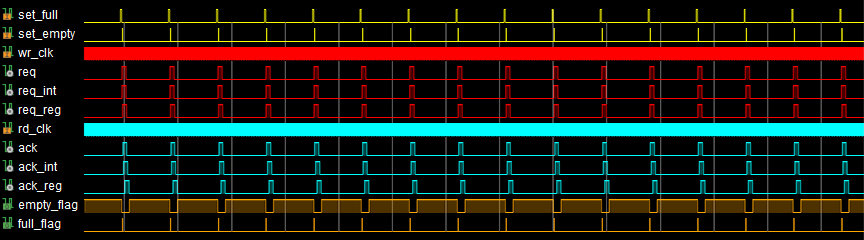
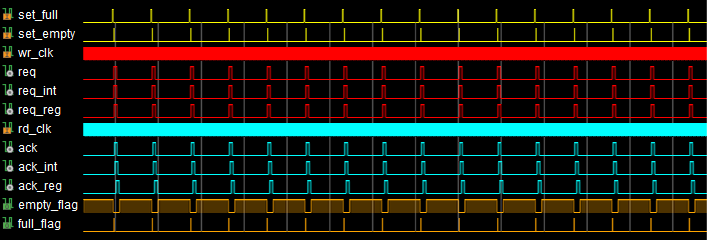
Complete the majority of the results chapter

diff --git a/text/results.tex b/text/results.tex
@@ -4,74 +4,130 @@
 
 %FIXME: add text here
 
-\subsection{Memory Synchronizer}
+\section{Memory Synchronizer}
 
-This section describes the various tests performed on the full/empty memory synchronizer used within the PDP firmware to synchronize data transitioning across clock domains. First, it discusses simulation results obtained through a full behavioral simulation of PDP. Secondly, it discusses using the memory synchronizer in a test setup and pitfalls that occurred with earlier implementations.
+    This section describes the various tests performed on the full/empty memory synchronizer used within the PDP firmware to synchronize data transitioning across clock domains. First, it discusses simulation results obtained through a full behavioral simulation of PDP. Secondly, it discusses using the memory synchronizer in a test setup and pitfalls that occurred with earlier implementations.
 
-\subsubsection{Simulations}
-Figure~\ref{fig:full_empty_sim} shows the simulated results of the full/empty memory synchronizer when transitioning to full and back to empty per clock cycle for a writer and reader operating at \mbox{XXX Mhz} and \mbox{200 Mhz}, respectively. For discussion about each signal and the expected internal behavior see chapter~\ref{sec:memorysync}. Each state transition in the simulation should look similar to the state transitions shown in Table~\ref{tbl:full_empty_circuit_states}.
+    \subsection{Simulation}
+        Figure~\ref{fig:full_empty_sim} shows the simulated results of the full/empty memory synchronizer when transitioning to full and back to empty per clock cycle for a writer and reader operating at \mbox{35.75 Mhz} and \mbox{200 Mhz}, respectively. For discussion about each signal and the expected internal behavior see Chapter~\ref{sec:memorysync}. Each state transition in the simulation should look similar to the state transitions shown in Table~\ref{tbl:full_empty_circuit_states}.
 
-\begin{figure}
-    \centering
-    \includegraphics[width=1.0\textwidth]{fig/full_empty_sim.png}
-    \caption{Full/Empty Circuit Simulation}
-    \label{fig:full_empty_sim}
-\end{figure}
+        \begin{figure}[t]
+            \centering
+            \includegraphics[width=1.0\textwidth]{fig/full_empty_sim.png}
+            \caption{Full/Empty Circuit Simulation}
+            \label{fig:full_empty_sim}
+        \end{figure}
 
-The circuit holds a steady state until the {\it set full} signal is toggled for a single {\it write clock} cycle. On the next {\it write clock} cycle, the {\it req signal} transitions high and the {\it empty flag} transitions low. Then the data is moved to the {\it read clock} domain using the two flip-flop synchronizer scheme discussed in the implementation details. At the next rising edge of the {\it read clock}, the data is latched into {\it req internal} which is an internal metastable register. Due to the speed difference between write and read clock speed, the data latches into the register quickly. Following this, a cycle later, the data is clocked into {\it req reg} which completes the {\it read clock} domain transition causes the {\it full flag} to transition high.
+        The circuit holds a steady state until the {\it set full} signal is toggled for a single {\it write clock} cycle. On the next {\it write clock} cycle, the {\it req signal} transitions high and the {\it empty flag} transitions low. Then the data is moved to the {\it read clock} domain using the two flip-flop synchronizer scheme discussed in the implementation details. At the next rising edge of the {\it read clock}, the data is latched into {\it req internal} which is an internal metastable register. Due to the speed difference between write and read clock speed, the data latches into the register quickly. Following this, a cycle later, the data is clocked into {\it req reg} which completes the {\it read clock} domain transition causes the {\it full flag} to transition high.
 
-Once any corresponding buffer data is handled by the PDP firmware, the {\it set empty} signal is toggled for a single {\it read clock} cycle. This causes the {\it ack} signal to transition high. Then the data is moved to the {\it write clock} domain using the two flip-flop synchronizer scheme discussed in the implementation details. At the next rising edge of the {\it write clock}, the data is latched into {\it ack internal}. Following this, a cycle later, the data is clocked into {\it ack reg} which completes the {\it write clock} domain transition. Notice that it takes much longer to transition data from the {\it read clock} domain to the {\it write clock} domain than vice versa. This is due to the slow write clock.
+        Once any corresponding buffer data is handled by the PDP firmware, the {\it set empty} signal is toggled for a single {\it read clock} cycle. This causes the {\it ack} signal to transition high. Then the data is moved to the {\it write clock} domain using the two flip-flop synchronizer scheme discussed in the implementation details. At the next rising edge of the {\it write clock}, the data is latched into {\it ack internal}. Following this, a cycle later, the data is clocked into {\it ack reg} which completes the {\it write clock} domain transition. Notice that it takes much longer to transition data from the {\it read clock} domain to the {\it write clock} domain than vice versa. This is due to the slow write clock.
 
-A {\it write clock} cycle later, {\it req} transitions low. Subsequently, it transitions to the {\it read clock} domain just as before. Following this, the {\it ack} line is lowered and transitions to the {\it write clock} domain just as before. At the same time, the {\it empty flag} transitions high, and the circuit is in the state it began in.
+        A {\it write clock} cycle later, {\it req} transitions low. Subsequently, it transitions to the {\it read clock} domain just as before. Following this, the {\it ack} line is lowered and transitions to the {\it write clock} domain just as before. At the same time, the {\it empty flag} transitions high, and the circuit is in the state it began in.
 
-This follows the expected state transitions from Table~\ref{tbl:full_empty_circuit_states} with the only notable distinction being that transitions across clock domains take different amounts of time depending on the destination.
+        This follows the expected state transitions from Table~\ref{tbl:full_empty_circuit_states} with the only notable distinction being that transitions across clock domains take different amounts of time depending on the destination.
 
-In practice, a complete double handshake takes many cycles to complete which could lead to undesired overflow behavior. In PDP, overflow issues are mitigated by allocating enough internal buffers to allow for there to always be a buffer available for a writer to fill.
+        In practice, a complete double handshake takes many cycles to complete which could lead to undesired overflow behavior. In PDP, overflow issues are mitigated by allocating enough internal buffers to allow for there to always be a buffer available for a writer to fill.
 
-Additionally, the use of the two flip-flop synchronizer means that it takes more than a single {\it read clock} cycle for the {\it full flag} to raise; however, given that an IRLED array's pixels take many {\it read clock} cycles to charge, this does not pose a problem. Moreover, in practice, the {\it full flag} will transition in between two to three cycles of the reader clock depending on where the rising edge of the reader clock falls relative to the transitioning of the {\it req} signal.
+        Additionally, the use of the two flip-flop synchronizer means that it takes more than a single {\it read clock} cycle for the {\it full flag} to raise; however, given that the pixels of an IRLED array take many {\it read clock} cycles to charge, this does not pose a problem. Moreover, in practice, the {\it full flag} will transition in between two to three cycles of the reader clock depending on where the rising edge of the reader clock falls relative to the transitioning of the {\it req} signal.
 
-Figure~\ref{fig:full_empty_row_sim} shows the simulated results of the full/empty memory synchronizer for multiple pixels. The large gaps of time between transitions to full are due to there being multiple buffers available as discussed above. This indicates that at the simulated rates no overflow can occur. In practice, it would be possible for overflow to occur if the write clock speed was close to the read clock speed; however, due to the maximum possible write speed for HDMI only being \mbox{148.5 MHz} and the hiding of clock domain crossinglatency via multiple buffers, a \mbox{200 Mhz} input clock is sufficient for correct behavior.
+        Figure~\ref{fig:full_empty_row_sim} shows the simulated results of the full/empty memory synchronizer for multiple pixels. The large gaps of time between transitions to full are due to there being multiple buffers available as discussed above. This indicates that at the simulated rates no overflow can occur. In practice, it would be possible for overflow to occur if the write clock speed was close to the read clock speed; however, due to the maximum possible write speed for HDMI only being \mbox{148.5 MHz} and the hiding of clock domain crossinglatency via multiple buffers, a \mbox{200 Mhz} input clock is sufficient for correct behavior.
 
-\begin{figure}
-    \centering
-    \includegraphics[width=1.0\textwidth]{fig/full_empty_row_sim.png}
-    \caption{Full/Empty Circuit Multiple Pixel Simulation}
-    \label{fig:full_empty_row_sim}
-\end{figure}
+        \begin{figure}[t]
+            \centering
+            \includegraphics[width=1.0\textwidth]{fig/full_empty_row_sim.png}
+            \caption{Full/Empty Circuit Multiple Pixel Simulation}
+            \label{fig:full_empty_row_sim}
+        \end{figure}
 
-\subsubsection{Verification}
+    \subsection{Verification}
 
-\begin{figure}
-    \centering
-    \includegraphics[width=0.25\textwidth]{fig/checker.png}
-    \caption{Checker Input Image}
-    \label{fig:checker_pattern}
-\end{figure}
+%\begin{figure}
+%    \centering
+%    \includegraphics{fig/checker.png}
+%    \caption{Checker Input Image}
+%    \label{fig:checker_pattern}
+%\end{figure}
+%
+%\begin{figure}
+%    \centering
+%    \includegraphics{fig/random_noise.png}
+%    \caption{Random Noise Input Image}
+%    \label{fig:random_noise}
+%\end{figure}
 
-\begin{figure}
-    \centering
-    \includegraphics[width=0.25\textwidth]{fig/random_noise.png}
-    \caption{Random Noise Input Image}
-    \label{fig:random_noise}
-\end{figure}
+\section{Firmware}
+    This section discusses behavioral simulation results from the PDP firmware implementation and experimental results obtained from running the firmware on actual IRLED arrays.
 
-\subsection{other stuff}
-This section provides a few captures of simulation inputs and outputs to show how packets arrive and are processed by the architecture.
+    \subsection{Simulation}
+    This section provides captures of simulation inputs and outputs to show how packets arrive and are processed by the firmware architecture.
 
-In Figure~\ref{fig:input_example} simulated HDMI is shown. When video data enable (write enable) transitions high words of data representing PDP packets start to stream in. These are indicated by Packet ID, X start, X end, Y start, Y end, and Packet Data. Each word would be stored in an SCB slot as indicated in the previous section. The final piece of data indicated is a reset packet. Note, that the data prior to Packet ID would be ignored as it does not represent a valid PDP command. It would be discarded by the valid controller.
+    In Figure~\ref{fig:input_example} simulated HDMI is shown. When video data enable (write enable) transitions high words of data representing PDP packets start to stream in. These are indicated by packet ID, X start, X end, Y start, Y end, and Packet Data. Each word would be stored in an SCB slot as indicated in the previous section. The final piece of data indicated is a reset packet. Note, that the data prior to Packet ID would be ignored as it does not represent a valid PDP command. It would be discarded by the valid controller.
 
-\begin{figure}
-    \centering
-    \includegraphics[width=1.0\textwidth]{fig/pdp_input_example.png}
-    \caption{PDP Single HDMI Input Example Simulation}
-    \label{fig:input_example}
-\end{figure}
+    \begin{figure}
+        \centering
+        \includegraphics[width=1.0\textwidth]{fig/pdp_input_example.png}
+        \caption{PDP Single HDMI Input Example Simulation}
+        \label{fig:input_example}
+    \end{figure}
 
-Figure~\ref{fig:output_example} shows the final output driven to the array. Highlighted in red is data from the write enable packet. Note, all values out are up shifted by 5 bits to be received by the DACs in the system. Additionally, the values are shown in reverse order from the input diagram. For example, 992 corresponds to the value of 31 on the input side. In purple the reset packet is shown with two stages of array writes. In the first stage, load line goes low. In the second stage the load line transitions high.
+    Figure~\ref{fig:output_example} shows the final output driven to the array. Highlighted in red is data from the write enable packet. Note, all values out are up shifted by 5 bits to be received by the DACs in the system. Additionally, the values are shown in reverse order from the input diagram. For example, 992 corresponds to the value of 31 on the input side. In purple the reset packet is shown with two stages of array writes. In the first stage, load line goes low. In the second stage the load line transitions high. The states shown are the transitioning of the state machines discussed in Chapter~\ref{sec:state_machines}.
 
-\begin{figure}
-    \centering
-    \includegraphics[width=1.0\textwidth]{fig/pdp_output_example.png}
-    \caption{PDP Output Example Simulation}
-    \label{fig:output_example}
-\end{figure}
+    \begin{figure}
+        \centering
+        \includegraphics[width=1.0\textwidth]{fig/pdp_output_example.png}
+        \caption{PDP Output Example Simulation}
+        \label{fig:output_example}
+    \end{figure}
+
+    \subsection{Characterization}
+        This section shows select results of running the PDP firmware on an NSLEDS array to characterize its behavior. Namely, whether it correctly draws to an array and whether it performs better than earlier firmware incarnations. Though, only a few results are shown here, the PDP firmware has been run on multiple NSLEDS and HDILED arrays to collect data and characterize the arrays themselves. As of this writing, it has been used in daily operations with my research group's IRLED arrays for over a year and is the primary firmware in use today.
+
+        \subsubsection {Array Maps}
+            In order to characterize whether the behavior of PDP is consistent with older firmware (called SNAP) and has reproducible results between runs, a number of different array characterization tests were performed on an NSLEDS array. One test is to collect an array map which is performed by doing a sweep of array pixels by outputting light to each pixel separately over multiple frames and capturing the result. Typically, this is done using grids to speed up data collection. An example grid for a partial frame is shown in Figure~\ref{fig:grid}. Defective pixels on an array will have low light output or have inconsistent brightness from run to run. This could also happen if a firmware contained internal timing issues as well. Comparing a test firmware with a known good reference firmware can rule out firmware issues in the advent of this type of poor array behavior.
+
+            \begin{figure}[t]
+                \centering
+                \includegraphics{fig/grid.jpg}
+                \caption{Pixel Sweep Grid}
+                \label{fig:grid}
+            \end{figure}
+
+            Figure~\ref{fig:array_map_pdp} shows an array map collected from the PDP firmware and Figure~\ref{fig:array_map_snap} shows an array map collected from the older SNAP firmware. In each figure, array data collected using an IR camera is shown on the left with a camera count scale on the right. Camera counts are an uncalibrated measure of IR intensity that can mapped to apparent temperature when calibrated. At a glance each image appears to be the same; however, there are slight differences in behavior between the firmwares in that PDP has a slightly higher light output. The dark regions of each map are simply dead pixels on the array and do not reflect the firmware. More than half of the particular array is non functioning. The repeating patterns of horizontal lines that can be seen are the result of slow DAC channels on an array. Every 32 columns there are 2 channels which take longer to settle and that can be seen in these results, as these channels have no fully settled. This is due to design flaw on early arrays which resulted in higher capacitance on those lines. Overall, the PDP results are as expected.
+
+            \begin{figure}[t]
+                \centering
+                \includegraphics[width=1.0\textwidth]{fig/array_map_pdp.jpg}
+                \caption{Array Map from the PDP Firmware}
+                \label{fig:array_map_pdp}
+            \end{figure}
+
+            \begin{figure}[t]
+                \centering
+                \includegraphics[width=1.0\textwidth]{fig/array_map_snap.jpg}
+                \caption{Array Map from the SNAP Firmware}
+                \label{fig:array_map_snap}
+            \end{figure}
+
+        \subsubsection{Fractional Difference Maps}
+
+            Another test is to collect multiple array maps and take the fractional difference between them to see the percent difference in light output between runs. This allows for the consistency of light output to be characterized. A large difference could indicate problems with the pixels of an array, analog chain, or firmware behavior. Small differences indicate that the pixels of an array are more consistent between runs. Differences in behavior between firmwares (or firmware revisions) would be indicative of variances in signal timing. In this case, a larger variance would indicate less precise timing within the firmware. Some variance is expected is due to camera focus, noise, and physical vibration. The particular IR camera used to collect data in this setup utilizes a motorized reversed-stirling cryo-cooler. These are often utilized for cooling detectors within thermal imaging systems\cite{Organ1999}. These induce a physical vibration which can result in noise within collected camera imagery.
+
+            Figure~\ref{fig:fractional_difference_pdp} shows a fractional difference map for the PDP firmware and Figure~\ref{fig:fractional_difference_snap} shows a fractional difference map for the older SNAP firmware. The dark blue areas indicating zero difference are simply dead regions of the array similar to the earlier results. The red areas of high variance are due to those pixels being located on marginal portions of the array specifically along non-functioning edges. In practice for displaying imagery, these areas would be marked as defected and not driven.
+
+            \begin{figure}[t]
+                \centering
+                \includegraphics[width=1.0\textwidth]{fig/fractional_difference_pdp.jpg}
+                \caption{Fractional Difference Map from the PDP Firmware}
+                \label{fig:fractional_difference_pdp}
+            \end{figure}
+
+            \begin{figure}[t]
+                \centering
+                \includegraphics[width=1.0\textwidth]{fig/fractional_difference_snap.jpg}
+                \caption{Fractional Difference Map from the SNAP Firmware}
+                \label{fig:fractional_difference_snap}
+            \end{figure}
+
+            The average variance for both firmwares is less than 4 percent. However, the results indicate a difference in behavior between the older SNAP firmware and the newer PDP firmware. PDP has less variance in per pixel light output per run as indicated by the darker blue colors in the working portions of the array. This is likely due to the static \mbox{200 Mhz} system clock used for driving an arrays pixels combined with the two flip-flop synchronization strategy utilized within the PDP firmware that is discussed in Chapter~\ref{sec:memorysync}. The earlier SNAP firmware used an HDMI clock signaling based approach to time triggering of events on the system side. Given that the clock is an input from an external HDMI card, it most likely has some noise. Another factor that may contribute to the larger variance is the fact that most functionality within SNAP used only the first HDMI card clock and ignored the second HDMI card clock. The crystal oscillators used for generating clock signals within devices typically has a finite precision due to various contributing factors such as thermal noise, power supply variations, and aging\cite{Naval2002}. This means that oscillators within the same device model may vary resulting in clock skew. Any inherit oscillation skew could be further compounded by the fact that each HDMI cards data lines travel physically different trace paths to arrive within the FPGA. The PDP firmware on the other hand, makes no assumptions about input clock skew. The Memory synchronizer utilized within explicitly synchronizes the data of each HDMI card separately across clock domains to the system clock domain. Then it explicitly pulls data from each synchronized circular buffer independently. Overall the better behavioral results are promising for the PDP firmware.
+
+\section{High-speed Operation}
